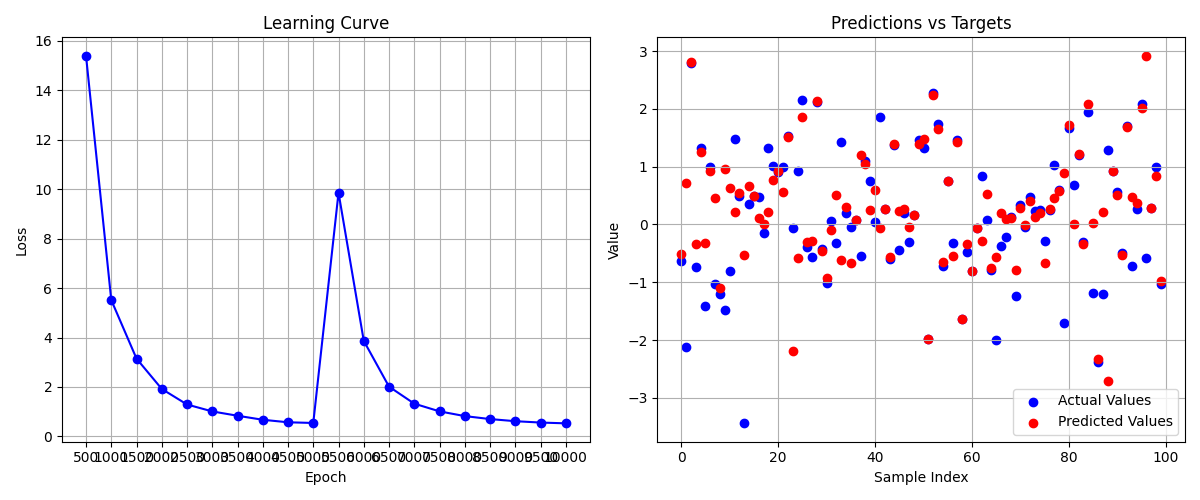
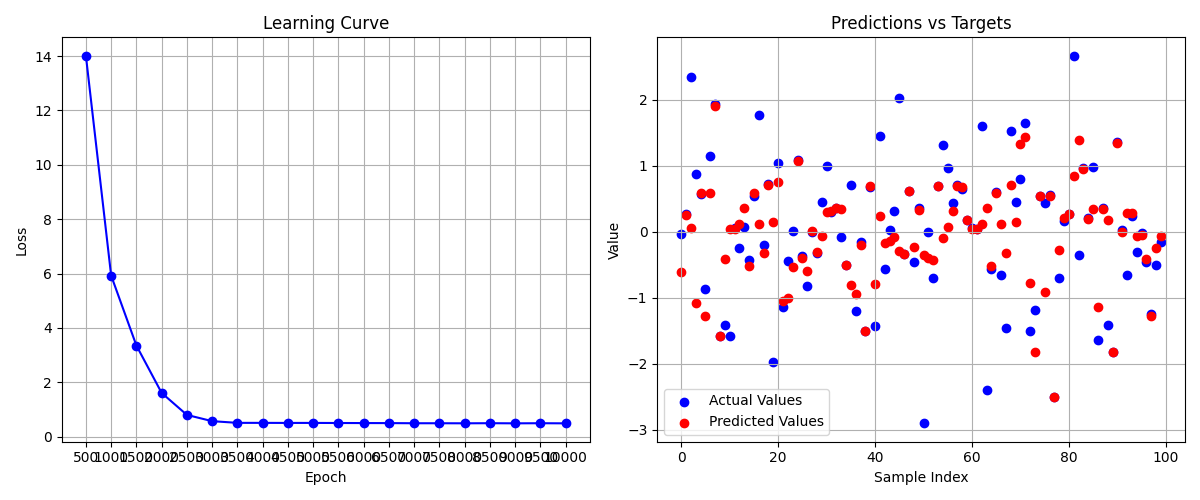
benchmarking done!

diff --git a/test/benchmark/brief.py b/test/benchmark/brief.py
@@ -1,0 +1,87 @@
+import time
+import axgrad
+from axgrad import Tensor
+from axgrad import zeros, ones, randn, randint, uniform, fill, linspace, arange
+
+RUNS = 100
+
+def bench(label, fn):
+  start = time.perf_counter()
+  for _ in range(RUNS): fn()
+  elapsed = (time.perf_counter() - start) / RUNS * 1000
+  print(f"  {label:<28} {elapsed:.4f} ms/run")
+
+print("\n-- Creation ops --------------------------------")
+bench("randn(64, 64)",          lambda: randn(64, 64))
+bench("zeros(64, 64)",          lambda: zeros(64, 64))
+bench("arange(0, 1000, 1.0)",   lambda: arange(0, 1000, 1.0))
+bench("linspace(0,1,100,100)",  lambda: linspace(0.0, 0.01, 1.0, 100))
+
+a, b = randn(64, 64), randn(64, 64)
+a.requires_grad, b.requires_grad = True, True
+s = Tensor([[1.0, -2.0], [3.0, -4.0]], requires_grad=True)
+
+print("\n-- Binary ops --------------------------------")
+bench("add  (64x64 + 64x64)",   lambda: a + b)
+bench("sub  (64x64 - 64x64)",   lambda: a - b)
+bench("mul  (64x64 * 64x64)",   lambda: a * b)
+bench("div  (64x64 / 64x64)",   lambda: a / b)
+bench("pow  (64x64 ** 2)",      lambda: a ** 2)
+bench("add  scalar (a + 3.0)",  lambda: a + 3.0)
+
+print("\n-- Matmul ------------------------------------")
+bench("matmul (64x64 @ 64x64)", lambda: a @ b)
+
+print("\n-- Unary ops --------------------------------─")
+bench("log",    lambda: a.log())
+bench("exp",    lambda: a.exp())
+bench("sqrt",   lambda: a.sqrt())
+bench("abs",    lambda: a.abs())
+bench("sign",   lambda: a.sign())
+bench("neg",    lambda: -a)
+
+print("\n-- Activation ops ----------------------------")
+bench("relu",     lambda: a.relu())
+bench("sigmoid",  lambda: a.sigmoid())
+bench("tanh",     lambda: a.tanh())
+bench("gelu",     lambda: a.gelu())
+bench("silu",     lambda: a.silu())
+bench("softplus", lambda: a.softplus())
+bench("swish",    lambda: a.swish())
+bench("elu",      lambda: a.elu())
+bench("leakyrelu",lambda: a.leakyrelu())
+
+print("\n-- Reduction ops ----------------------------─")
+bench("sum  (axis=-1)",          lambda: a.sum(axis=-1))
+bench("sum  (axis=0)",           lambda: a.sum(axis=0))
+bench("mean (axis=-1)",          lambda: a.mean(axis=-1))
+bench("var  (axis=-1)",          lambda: a.var(axis=-1))
+bench("std  (axis=-1)",          lambda: a.std(axis=-1))
+bench("max  (axis=-1)",          lambda: a.max(axis=-1))
+bench("min  (axis=-1)",          lambda: a.min(axis=-1))
+
+print("\n-- Shape ops --------------------------------─")
+bench("transpose",               lambda: a.transpose())
+bench("flatten",                 lambda: a.flatten())
+bench("reshape (64x64->4096)",   lambda: a.reshape((4096,)))
+bench("squeeze (2x1x2->2x2)",    lambda: Tensor([[[1.0, 2.0]], [[3.0, 4.0]]]).squeeze(1))
+bench("unsqueeze (2x2->2x1x2)",  lambda: s.unsqueeze(1))
+
+print("\n-- Autograd (backward) ----------------------─")
+def _backward_bench():
+  x, y = randn(8, 8), randn(8, 8)
+  x.requires_grad, y.requires_grad = True, True
+  z = (x @ y).sum()
+  z.backward()
+
+bench("matmul -> sum -> backward", _backward_bench)
+
+def _chain_backward():
+  x = randn(8, 8)
+  x.requires_grad = True
+  z = ((x * x) + x).relu().sum()
+  z.backward()
+
+bench("chain ops -> backward",     _chain_backward)
+
+print()

diff --git a/axgrad/__init__.py b/axgrad/__init__.py
@@ -1,4 +1,4 @@
 from .tensor import Tensor, int8, int16, int32, int64, long, float32, float64, double, uint8, uint16, uint32, uint64, boolean
-from .utils import zeros, ones, ones_like, zeros_like, randn, randint, uniform, fill
+from .utils import zeros, ones, ones_like, zeros_like, randn, randint, uniform, fill, linspace, arange
 from . import nn
 from . import linalg
